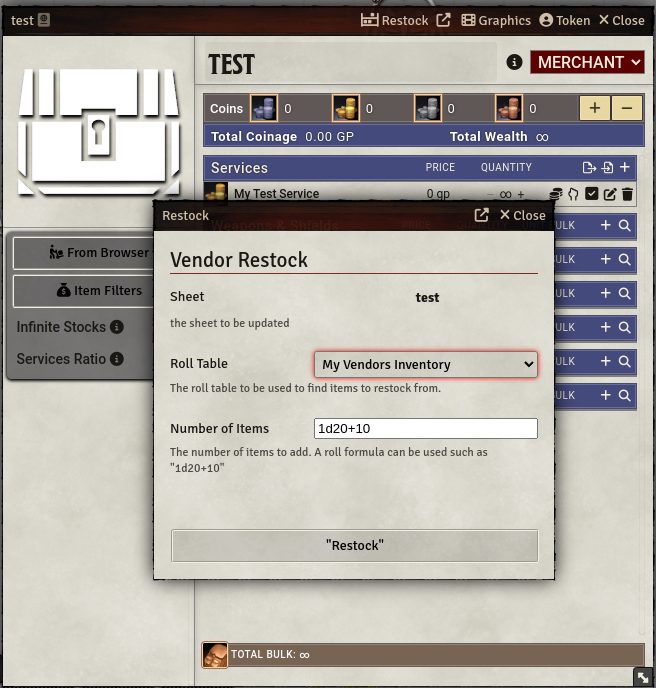
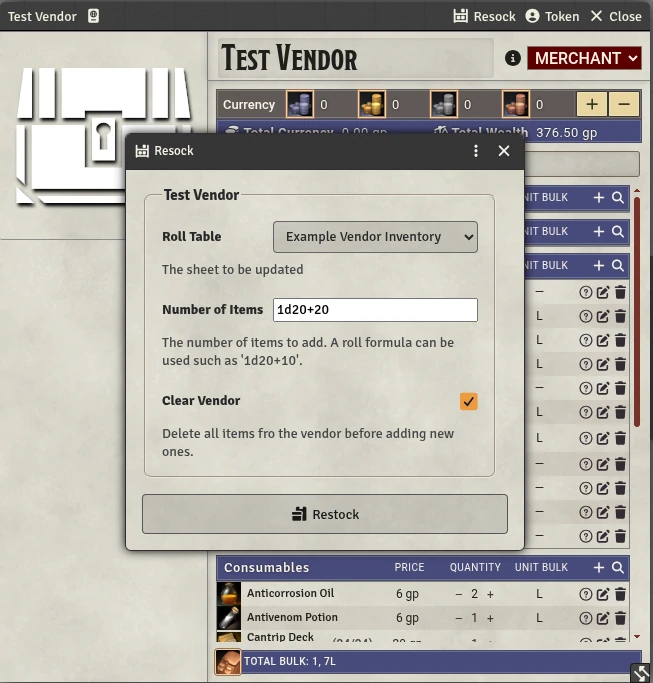
upgraded to v.2 ui and foundry v14 cleaned up html

diff --git a/module.js b/module.js
@@ -1,141 +1,176 @@
-
 import CONSTANTS from "./constants.js";
 
-Hooks.once("ready", () => {
-    registerSheetButton();
+Hooks.on("getActorSheetHeaderButtons", (sheet, buttons) => {
+    if (sheet.actor.type !== "loot" || !game.user.isTrusted || !game.user.can("ACTOR_CREATE")) return;
+
+    buttons.unshift({
+        label: game.i18n.localize("VENDOR-RESTOCK.window-title"),
+        class: "restock-open",
+        icon: "fas fa-shelves",
+        onclick: () => {
+            new VendorRestock({ actor: sheet.actor }).render({ force: true });
+        }
+    });
 });
 
-function registerSheetButton() {
-
-    if (!game.user.isTrusted) return;
-
-    /**
-     * Merchant sheets
-     */
-    const merchSheetNames = Object.values(CONFIG.Actor.sheetClasses.loot)
-        .map((sheetClass) => sheetClass.cls)
-        .map((sheet) => sheet.name);
-
-    merchSheetNames.forEach((sheetName) => {
-        Hooks.on("render" + sheetName, (app, html, data) => {
-            // only for GMs or the owner of this character
-            if (!data.owner || !data.actor) return;
-            if (!game.user.can("ACTOR_CREATE")) return;
-
-            const button = $(`<a class="restock-open" title="Vendor Restock"><i class="fas fa-shelves"></i>` + game.i18n.format("VENDOR-RESTOCK.window-title") + `</a>`);
-
-            button.click(() => {
-                if (game.user.can("ACTOR_CREATE")) {
-                    const restock = new VendorRestock(VendorRestock.defaultOptions, data.actor);
-                    restock.render(true);
-                }
-            });
-
-            html.closest('.app').find('.restock-open').remove();
-            let titleElement = html.closest('.app').find('.window-title');
-            if (!app._minimized) button.insertAfter(titleElement);
-        });
-    });
-}
-
-class VendorRestock extends FormApplication {
-
-    constructor(options, actor) {
+class VendorRestock extends foundry.applications.api.HandlebarsApplicationMixin(foundry.applications.api.ApplicationV2) {
+    constructor(options = {}) {
         super(options);
-        this.actor = game.actors.get(actor.id ? actor.id : actor._id);
+        this.actor = options.actor;
     }
 
-    static get defaultOptions() {
-        const options = super.defaultOptions;
-        options.title = game.i18n.format("VENDOR-RESTOCK.window-title");
-        options.template = "modules/vendor-restock/templates/restock.hbs";
-        options.classes = ["package-configuration restock"];
-        options.id = "restock";
-        options.width = 400;
-        options.closeOnSubmit = false;
-        return options;
-    }
+    /** @override */
+    static DEFAULT_OPTIONS = {
+        id: "restock",
+        tag: "div", 
+        classes: ["restock", "categories", "flexcol"],
+        window: {
+            title: "VENDOR-RESTOCK.window-title",
+            icon: "fas fa-shelves"
+        },
+        position: {
+            width: 400,
+            height: "auto"
+        },
+        // Register custom application click actions natively
+        actions: {
+            submitRestock: VendorRestock.#onRestockClick
+        }
+    };
 
-    getData() {
-        const flags = this.getFlags(this.actor);
-        const tables = [];
-        this.tables = game.tables.forEach((table) =>{
-            tables.push({
-                key: table._id,
-                label: table.name
-            })
-        });
+    /** @override */
+    static PARTS = {
+        form: {
+            template: "modules/vendor-restock/templates/restock-form.html"
+        }
+    };
+
+    /** @override */
+    async _prepareContext(options) {
+        const flags = this._getFlags(this.actor);
+        
+        const tables = game.tables.map(table => ({
+            key: table.id,
+            label: table.name
+        }));
+
         return {
             sheet: this.actor.name,
             tables,
             flags,
         };
-    };
+    }
 
-    getFlags(actor) {
-        const flags = actor.flags[CONSTANTS.FLAG_NAME]
-            ? actor.flags[CONSTANTS.FLAG_NAME]
-            : CONSTANTS.ACTOR_FLAGS;
-        return flags;
-    };
+    _getFlags(actor) {
+        return actor.getFlag(CONSTANTS.MODULE_NAME, CONSTANTS.FLAG_NAME) || CONSTANTS.ACTOR_FLAGS;
+    }
 
-    async setFlags(actor, flags) {
-        let updateData = {};
-        foundry.utils.setProperty(updateData, `flags.${CONSTANTS.FLAG_NAME}`, flags);
-        await actor.update(updateData);
-        return actor;
-    };
+    async _setFlags(actor, flags) {
+        await actor.setFlag(CONSTANTS.MODULE_NAME, CONSTANTS.FLAG_NAME, flags);
+    }
 
-    async _updateObject(event, formData) {
-        const rolltableId = formData.tableList;
-        const rollformula =  formData.rollformula;
-        const clear = formData.clearvendor;
-        const button = document.getElementById("vendor-restock-submit");
+    /**
+     * Native Click Handler via data-action
+     */
+    static async #onRestockClick(event, target) {
+        // Stop any browser form triggers instantly
+        event.preventDefault();
 
-        button.innerHTML = game.i18n.format("VENDOR-RESTOCK.working");
-        button.disabled = true;
+        // Safely extract the root container element
+        const rootElement = this.element;
+        
+        // Grab values directly by form name attributes safely
+        const rolltableId = rootElement.querySelector("[name='tableList']")?.value;
+        const rollformula = rootElement.querySelector("[name='rollformula']")?.value;
+        const clear = rootElement.querySelector("[name='clearvendor']")?.checked;
 
-        //save the forms data to the actor
-        const flags ={
-            table: rolltableId,
-            formula: rollformula,
-            clear: clear,
-        }        
-        await this.setFlags(this.actor, flags);
+        const button = rootElement.querySelector("#vendor-restock-submit");
+        if (button) {
+            button.innerHTML = `<i class="fas fa-spinner fa-spin"></i> ${game.i18n.localize("VENDOR-RESTOCK.working")}`;
+            button.disabled = true;
+        }
+
+        const flags = { table: rolltableId, formula: rollformula, clear: clear };
+        await this._setFlags(this.actor, flags);
 
         const rolltable = game.tables.get(rolltableId);
         const vendor = this.actor;
-        
-        //check for better merchant ifinite item stacks
-        var infiniteStock = false;
-        const bettermerch = vendor.flags["pf2e-toolbelt"]?.["betterMerchant"] ? vendor.flags["pf2e-toolbelt"]["betterMerchant"] : null;
-        if (bettermerch) infiniteStock = bettermerch.infiniteAll;
+        if (!rolltable) {
+            ui.notifications.error("Selected RollTable could not be found.");
+            this.close();
+            return;
+        }
 
-        // clear vendor inventory if desired
-        if (clear) vendor.deleteEmbeddedDocuments("Item", vendor.items.map(i => i._id));
+        let infiniteStock = false;
+        // Safely check if the module is enabled, then extract the value directly from the unvalidated data tree
+        if (game.modules.get("pf2e-toolbelt")?.active) {
+            const bettermerch = foundry.utils.getProperty(vendor, "flags.pf2e-toolbelt.betterMerchant");
+            if (bettermerch) infiniteStock = !!bettermerch.infiniteAll;
+        }
 
-        let shopQtyRoll = new Roll(rollformula);
-        await shopQtyRoll.evaluate();
+        if (clear) {
+            const itemIds = vendor.items.map(i => i.id);
+            await vendor.deleteEmbeddedDocuments("Item", itemIds);
+        }
+
+        const shopQtyRoll = await new Roll(rollformula).evaluate();
 
         if (shopQtyRoll.total > 0) {
             const draws = await Promise.all(Array.from({ length: shopQtyRoll.total }, () => rolltable.roll()));
+            
             for (const draw of draws) {
-                const item = await game.packs.get(draw.results[0].documentCollection).getDocument(draw.results[0].documentId);
-                const itemExists = vendor.items.find((i) => i.slug === item.slug);
-                if (itemExists){
-                    if (!infiniteStock){
-                        const newQty = itemExists.system.quantity + 1;
-                        await itemExists.update({ "system.quantity": newQty });
+                const result = draw.results[0]; 
+                if (!result) continue;
+
+                // FIXED CASE: Using the official documentUuid field as requested by the V13 engine
+                const itemUuid = result.documentUuid || null;
+                if (!itemUuid) continue;
+                
+                const itemData = await fromUuid(itemUuid);
+                if (!itemData) continue;
+
+                // Safety verification: Ensure the drawn target document is an actual Item
+                if (itemData.documentName !== "Item") {
+                    continue;
+                }
+
+                const itemExists = vendor.items.find(i => (i.slug && i.slug === itemData.slug) || i.name === itemData.name);
+
+                if (itemExists) {
+                    if (!infiniteStock) {
+                        const currentQty = foundry.utils.getProperty(itemExists, "system.quantity") || 0;
+                        await itemExists.update({ "system.quantity": currentQty + 1 });
                     }
                 } else {
-                    await vendor.createEmbeddedDocuments('Item', [item ] );
+                    // Convert to a pure, un-proxied deep-cloned JSON object
+                    const itemSource = JSON.parse(JSON.stringify(itemData.toObject()));
+                    
+                    // Safely strip database tracking parameters
+                    delete itemSource._id;
+                    delete itemSource.id;
+                    if (itemSource.ownership) delete itemSource.ownership;
+                    if (itemSource._stats) delete itemSource._stats;
+
+                    // Remove the legacy tracking flag without triggering the proxy getter
+                    if (itemSource.flags && typeof itemSource.flags === "object") {
+                        if ("exportSource" in itemSource.flags) {
+                            delete itemSource.flags.exportSource;
+                        }
+                        // Clean up the flags parent wrapper if it's completely empty
+                        if (Object.keys(itemSource.flags).length === 0) {
+                            delete itemSource.flags;
+                        }
+                    }
+
+                    await vendor.createEmbeddedDocuments("Item", [itemSource]);
                 }
             }
-            //sort the vendors inventory   
-            const items = vendor.items.contents
-                .sort((a, b) => a.name.localeCompare(b.name))
-                .map((i, x) => ({ _id: i.id, sort: 112500 + x * 15 }));
-            await vendor.updateEmbeddedDocuments("Item", items);
+
+            const itemsUpdate = vendor.items.contents
+                        .sort((a, b) => a.name.localeCompare(b.name))
+                        .map((item, idx) => ({ _id: item.id, sort: CONST.SORT_INTEGER_DENSITY + idx * 10 }));
+                        
+            await vendor.updateEmbeddedDocuments("Item", itemsUpdate);
         }
 
         this.close();